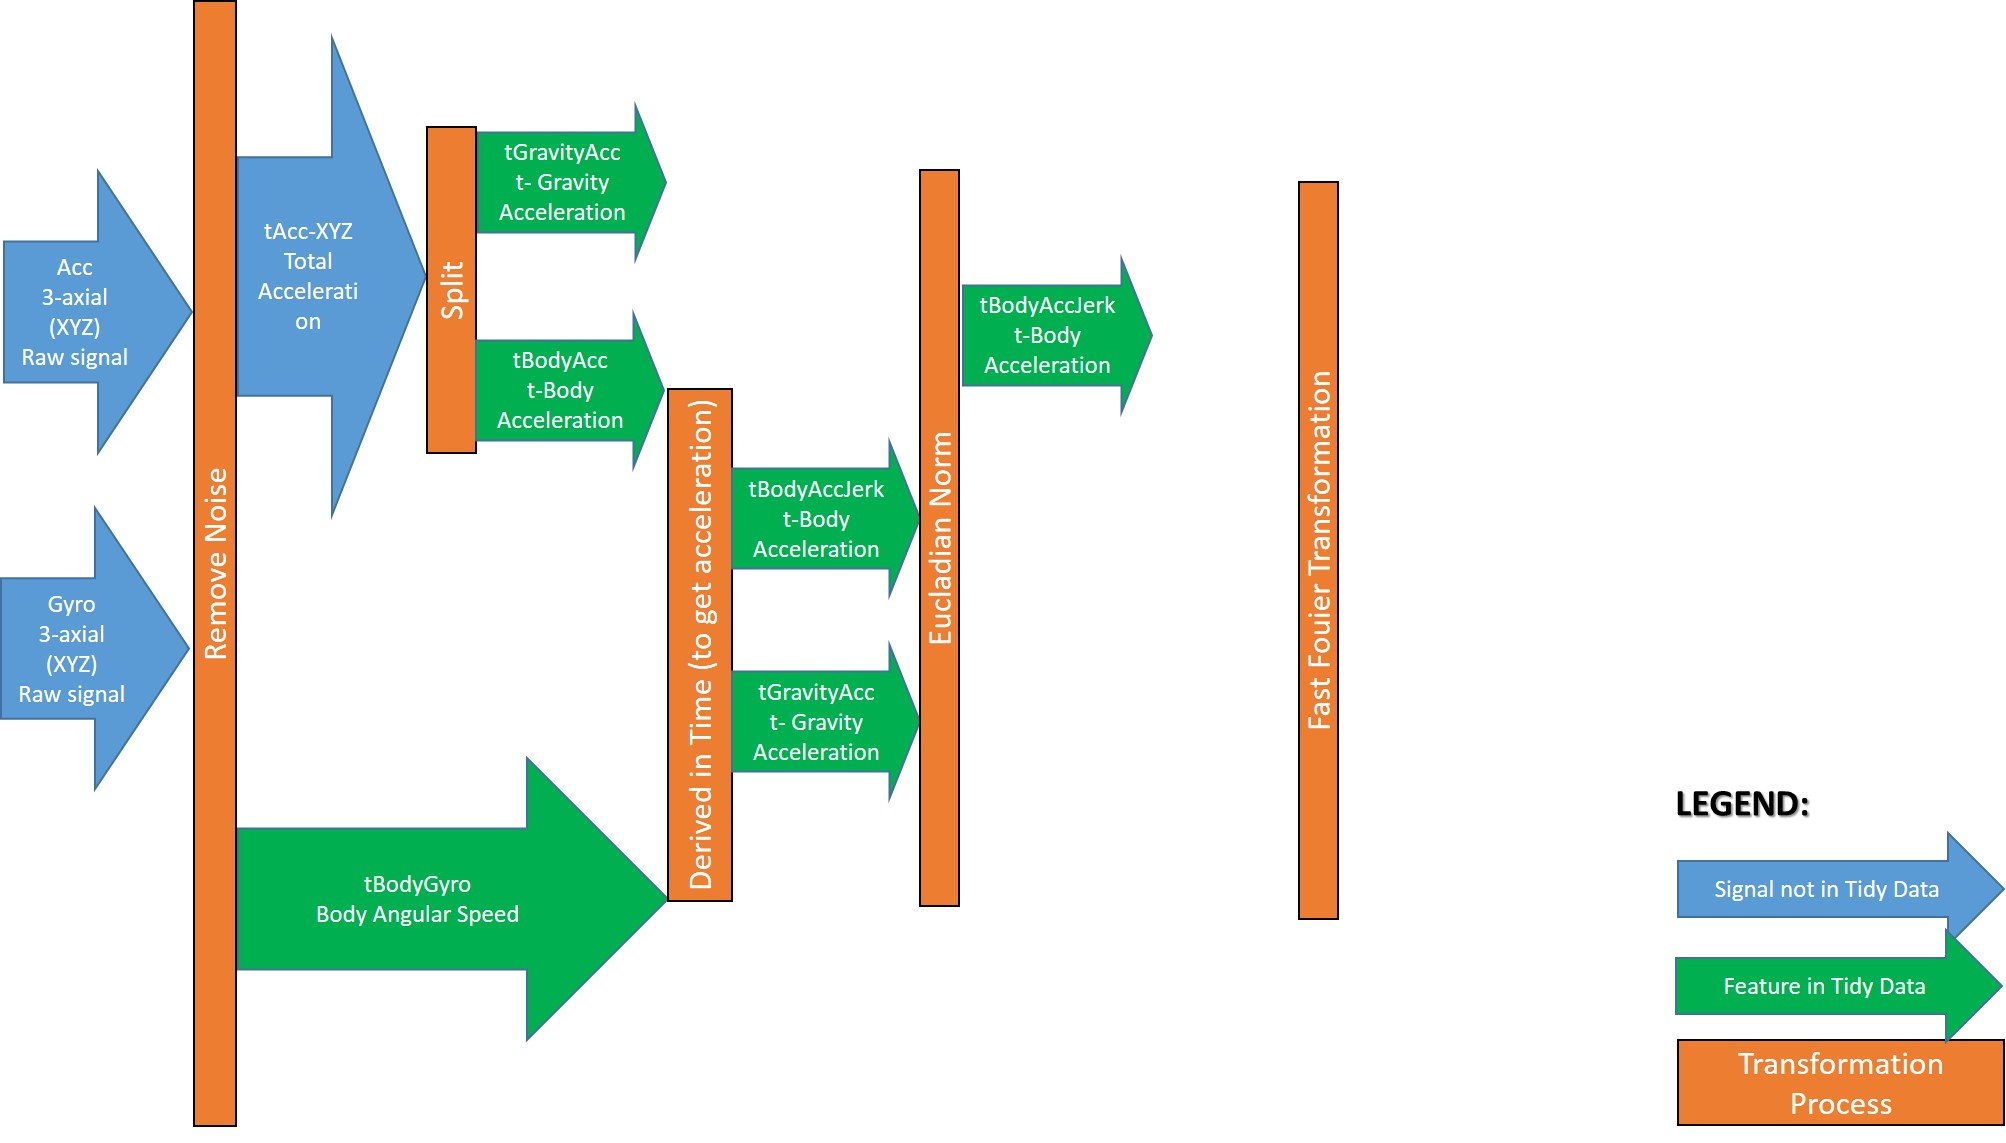
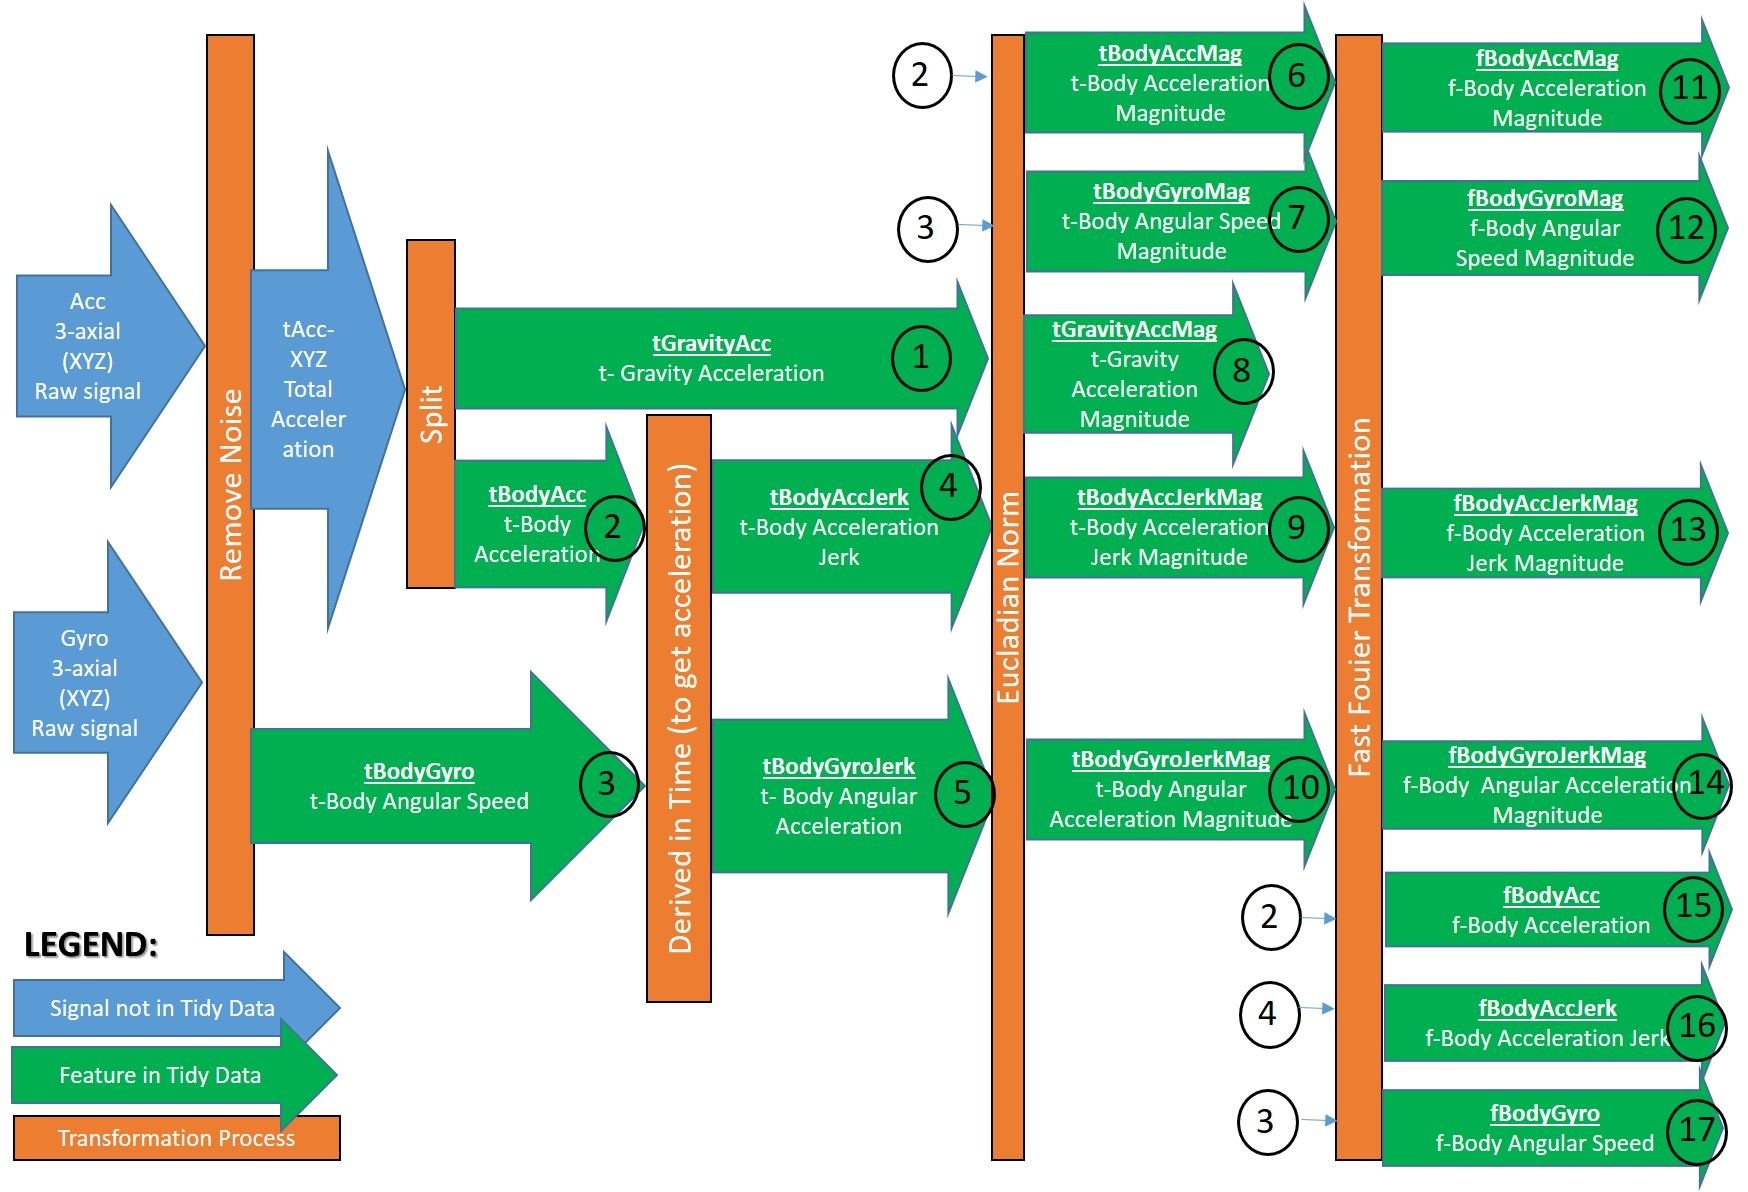
eight

diff --git a/CodeBook.md b/CodeBook.md
@@ -34,8 +34,8 @@ Since the Consolidated_Data uses information from features contained in X (Pleas
 This section is a summary from the feature_info.txt in order to understand the meaing of the different features retrieved in the tidy data. For detailed information please referred directly to the file in the dataset.
 
 The transformation of the data are represented in the following image: 
- 
 
+file:///https://github.com/MariPlaza/DataCleaningProject/blob/master/Data_Transformation.jpg
 
 
 ###Legend
@@ -45,7 +45,7 @@ The transformation of the data are represented in the following image:
 - **Y:** Values measured in the Y-Axis
 - **Z:** Values measured in the Z-Axis
 - **t:** Time domain signals
-- **f:** Time domain signals
+- **f:** Frequency domain signals
 - **Jerk:** Time rate of change of acceleration. It is the acceleration of the acceleration. More information in this link:
 http://www.mmsonline.com/articles/understanding-jerk-control
 
@@ -86,52 +86,52 @@ http://www.mmsonline.com/articles/understanding-jerk-control
 |tBodyGyroJerk-std()-Y|Standard Desviation|Body Angular Acceleration(Jerk)| Y  |t   |Derived in Time from Body Angular Speed|
 |tBodyGyroJerk-std()-Z|Standard Desviation|Body Angular Acceleration(Jerk)| Z  |t   |Derived in Time from Body Angular Speed|
 |tBodyAccMag-mean()|Mean|Body Acceleration Magnitude| NA  |t   |Eucladian Norm applied to tBodyAcc|
-|tBodyAccMag-std()|Standard Desviation||Body Acceleration Magnitude|NA  |t   |Eucladian Norm applied to tBodyAcc|
-|tGravityAccMag-mean()|Mean|   |NA   |t   |Eucladian Norm applied to tGravityAcc|
-|tGravityAccMag-std()|Standard Desviation| NA  |   |t  |Eucladian Norm applied to tGravityAcc|
-|tBodyAccJerkMag-mean()|Mean|   | NA  |t   |Eucladian Norm applied to tBodyAccJerk|
-|tBodyAccJerkMag-std()|Standard Desviation|   | NA  |t   |Eucladian Norm applied to tBodyAccJerk|
-|tBodyGyroMag-mean()|Mean|   | NA  |t   |Eucladian Norm applied to tBodyAcc|
-|tBodyGyroMag-std()|Standard Desviation|   | NA  |t   |Eucladian Norm applied to tBodyAcc|
-|tBodyGyroJerkMag-mean()|Mean|   | NA  |t   |Eucladian Norm applied to tBodyAcc|
-|tBodyGyroJerkMag-std()|Standard Desviation|   |  NA |t   |Eucladian Norm applied to tBodyAcc|
-|fBodyAcc-mean()-X|Mean|Body Acceleration   | X  |f   |
-|fBodyAcc-mean()-Y|Mean|Body Acceleration   | Y |f   |
-|fBodyAcc-mean()-Z|Mean|Body Acceleration   | Z |f   |
-|fBodyAcc-std()-X|Standard Desviation|Body Acceleration   | X  |f   |
-|fBodyAcc-std()-Y|Standard Desviation|Body Acceleration   | Y  |f   |
-|fBodyAcc-std()-Z|Standard Desviation|Body Acceleration   | Z  |f   |
-|fBodyAcc-meanFreq()-X|Mean|   |  X |f   |
-|fBodyAcc-meanFreq()-Y|Mean|   |  Y |f   |
-|fBodyAcc-meanFreq()-Z|Mean|   |  Z |f   |
-|fBodyAccJerk-mean()-X|Mean|   |  X |f   |
-|fBodyAccJerk-mean()-Y|Mean|   |  Y |f   |
-|fBodyAccJerk-mean()-Z|Mean|   |  Z |f   |
-|fBodyAccJerk-std()-X|Standard Desviation|   | X  |f   |
-|fBodyAccJerk-std()-Y|Standard Desviation|   | Y  |f   |
-|fBodyAccJerk-std()-Z|Standard Desviation|   | Z  |f   |
-|fBodyAccJerk-meanFreq()-X|Mean|   |  X |f   |
-|fBodyAccJerk-meanFreq()-Y|Mean|   | Y  |f   |
-|fBodyAccJerk-meanFreq()-Z|Mean|   | Z  |f   |
-|fBodyGyro-mean()-X|Mean|   | X  |f  |
-|fBodyGyro-mean()-Y|Mean|   | Y  |f  |
-|fBodyGyro-mean()-Z|Mean|   | Z  |f  |
-|fBodyGyro-std()-X|Standard Desviation|   | X |f   |
-|fBodyGyro-std()-Y|Standard Desviation|   | Y |f   |
-|fBodyGyro-std()-Z|Standard Desviation|   | Z |f   |
-|fBodyGyro-meanFreq()-X|Mean|   | X |f   |
-|fBodyGyro-meanFreq()-Y|Mean|   | Y |f  |
-|fBodyGyro-meanFreq()-Z|Mean|   | Z |f   |
-|fBodyAccMag-mean()|Mean|   | NA |f   |
-|fBodyAccMag-std()|Standard Desviation|   | NA |f   |
-|fBodyAccMag-meanFreq()|Mean|   | NA |f   |
-|fBodyBodyAccJerkMag-mean()|Mean|   | NA |f   |
-|fBodyBodyAccJerkMag-std()|Standard Desviation|   | NA |f   |
+|tBodyAccMag-std()|Standard Desviation|Body Acceleration Magnitude|NA  |t   |Eucladian Norm applied to tBodyAcc|
+|tGravityAccMag-mean()|Mean|Gravity Acceleration Magnitude|NA   |t   |Eucladian Norm applied to tGravityAcc|
+|tGravityAccMag-std()|Standard Desviation|Gravity Acceleration Magnitude| NA  |t  |Eucladian Norm applied to tGravityAcc|
+|tBodyAccJerkMag-mean()|Mean|Body Angular Acceleration Magnitude| NA  |t   |Eucladian Norm applied to tBodyAccJerk|
+|tBodyAccJerkMag-std()|Standard Desviation|Body Angular Acceleration Magnitude| NA  |t   |Eucladian Norm applied to tBodyAccJerk|
+|tBodyGyroMag-mean()|Mean|Body Angular Speed Magnitude   | NA  |t   |Eucladian Norm applied to tBodyGyro|
+|tBodyGyroMag-std()|Standard Desviation|Body Angular Speed Magnitude| NA  |t   |Eucladian Norm applied to tBodyGyro|
+|tBodyGyroJerkMag-mean()|Mean|Body Angular Speed Magnitude| NA  |t   |Eucladian Norm applied to tBodyGyroJerk|
+|tBodyGyroJerkMag-std()|Standard Desviation|Body Angular Speed Magnitude|  NA |t   |Eucladian Norm applied to tBodyGyroJerk|
+|fBodyAcc-mean()-X|Mean|Body Acceleration| X  |f   |Fast Fouier Transformation from tBodyAcc|
+|fBodyAcc-mean()-Y|Mean|Body Acceleration| Y |f   |Fast Fouier Transformation from tBodyAcc|
+|fBodyAcc-mean()-Z|Mean|Body Acceleration| Z |f   |Fast Fouier Transformation from tBodyAcc|
+|fBodyAcc-std()-X|Standard Desviation|Body Acceleration   | X  |f   |Fast Fouier Transformation from tBodyAcc|
+|fBodyAcc-std()-Y|Standard Desviation|Body Acceleration   | Y  |f   |Fast Fouier Transformation from tBodyAcc|
+|fBodyAcc-std()-Z|Standard Desviation|Body Acceleration   | Z  |f   |Fast Fouier Transformation from tBodyAcc|
+|fBodyAcc-meanFreq()-X|Mean|   |  X |f   |Fast Fouier Transformation from |
+|fBodyAcc-meanFreq()-Y|Mean|   |  Y |f   |Fast Fouier Transformation from |
+|fBodyAcc-meanFreq()-Z|Mean|   |  Z |f   |Fast Fouier Transformation from |
+|fBodyAccJerk-mean()-X|Mean|Body Acceleration Jerk   |  X |f   |Fast Fouier Transformation from tBodyAccJerk|
+|fBodyAccJerk-mean()-Y|Mean|Body Acceleration Jerk   |  Y |f   |Fast Fouier Transformation from tBodyAccJerk|
+|fBodyAccJerk-mean()-Z|Mean|Body Acceleration Jerk   |  Z |f   |Fast Fouier Transformation from tBodyAccJerk|
+|fBodyAccJerk-std()-X|Standard Desviation|Body Acceleration Jerk   | X  |f   |Fast Fouier Transformation from tBodyAccJerk|
+|fBodyAccJerk-std()-Y|Standard Desviation|Body Acceleration Jerk   | Y  |f   |Fast Fouier Transformation from tBodyAccJerk|
+|fBodyAccJerk-std()-Z|Standard Desviation|Body Acceleration Jerk   | Z  |f   |Fast Fouier Transformation from tBodyAccJerk|
+|fBodyAccJerk-meanFreq()-X|Mean|   |  X |f   |Fast Fouier Transformation from |
+|fBodyAccJerk-meanFreq()-Y|Mean|   | Y  |f   |Fast Fouier Transformation from |
+|fBodyAccJerk-meanFreq()-Z|Mean|   | Z  |f   |Fast Fouier Transformation from |
+|fBodyGyro-mean()-X|Mean|Body Acceleration   | X  |f  |Fast Fouier Transformation from tBodyGyro|
+|fBodyGyro-mean()-Y|Mean|Body Acceleration   | Y  |f  |Fast Fouier Transformation from tBodyGyro|
+|fBodyGyro-mean()-Z|Mean|Body Acceleration   | Z  |f  |Fast Fouier Transformation from tBodyGyro|
+|fBodyGyro-std()-X|Standard Desviation|Body Acceleration   | X |f   |Fast Fouier Transformation from tBodyGyro|
+|fBodyGyro-std()-Y|Standard Desviation|Body Acceleration   | Y |f   |Fast Fouier Transformation from tBodyGyro|
+|fBodyGyro-std()-Z|Standard Desviation|Body Acceleration   | Z |f   |Fast Fouier Transformation from tBodyGyro|
+|fBodyGyro-meanFreq()-X|Mean|   | X |f   |Fast Fouier Transformation from |
+|fBodyGyro-meanFreq()-Y|Mean|   | Y |f  |Fast Fouier Transformation from |
+|fBodyGyro-meanFreq()-Z|Mean|   | Z |f   |Fast Fouier Transformation from |
+|fBodyAccMag-mean()|Mean|Body Acceleration Magnitude   | NA |f   |Fast Fouier Transformation from tBodyAccMag|
+|fBodyAccMag-std()|Standard Desviation|Body Acceleration Magnitude   | NA |f   |Fast Fouier Transformation from tBodyAccMag|
+|fBodyAccMag-meanFreq()|Mean|   | NA |f   |Fast Fouier Transformation from |
+|fBodyBodyAccJerkMag-mean()|Mean|Body Acceleration Jerk Magnitude   | NA |f   |Fast Fouier Transformation from tBodyAccJerkMag|
+|fBodyBodyAccJerkMag-std()|Standard Desviation|Body Acceleration Jerk Magnitude   | NA |f   |Fast Fouier Transformation from tBodyAccJerkMag|
 |fBodyBodyAccJerkMag-meanFreq()|Mean|  | NA |f   |
-|fBodyBodyGyroMag-mean()|Mean|   | NA  |f   |
-|fBodyBodyGyroMag-std()|Standard Desviation|   | NA |f   |
+|fBodyBodyGyroMag-mean()|Mean|Body Angular Speed Magnitude   | NA  |f   |Fast Fouier Transformation from tBodyGyroMag|
+|fBodyBodyGyroMag-std()|Standard Desviation|Body Angular Speed Magnitude   | NA |f   |Fast Fouier Transformation from tBodyGyroMag|
 |fBodyBodyGyroMag-meanFreq()|Mean|   | NA |f   |
-|fBodyBodyGyroJerkMag-mean()|Mean|   | NA |f   |
-|fBodyBodyGyroJerkMag-std()|Standard Desviation|   | NA |f   |
+|fBodyBodyGyroJerkMag-mean()|Mean|Body Angular Acceleration Magnitude   | NA |f   |Fast Fouier Transformation from tBodyGyroJerkMag|
+|fBodyBodyGyroJerkMag-std()|Standard Desviation|Body Angular Acceleration Magnitude   | NA |f   |Fast Fouier Transformation from tBodyGyroJerkMag|
 |fBodyBodyGyroJerkMag-meanFreq()|Mean|   | NA  |f   |
 
